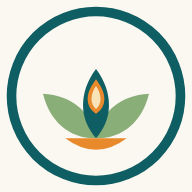
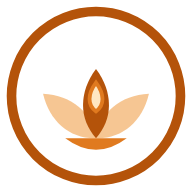
Light orange and white theme; remove dark theme
- Light orange fills (#FFE0BD) with dark brown-orange text (8.6:1) for
  buttons, the active menu item, tabs and completed habits; white page
  background; all text meets WCAG AA (4.9:1 to 13.4:1)
- Remove the dark theme and its toggle so the app is always light;
  clear any saved dark preference
- Emblem, favicon and app icons recoloured in orange tones; habit
  chart bars orange instead of green
- Selected assessment answers get a deep-orange outline and number badge
- Service worker cache bumped to v3 so browsers pick up the new look

Claude-Session: https://claude.ai/code/session_01XNS1yNF7twSLgBmby9YbCe

Changed region(s): [[0.0312, 0.0312, 0.9688, 0.9688], [0.2188, 0.3438, 0.7812, 0.7188]]

diff --git a/frontend/src/index.css b/frontend/src/index.css
@@ -3,7 +3,7 @@
 @tailwind utilities;
 
 /* SWASTI brand tokens: deep teal, saffron, leaf green, soft ivory, muted blue */
-/* SWASTI palette: white canvas, very light "spiritual" saffron fills, warm brown text */
+/* SWASTI palette: white canvas, light orange fills, warm brown text. Light only, by design. */
 :root {
   --bg: 255 255 255;          /* white */
   --surface: 255 255 255;
@@ -11,33 +11,24 @@
   --ink: 61 43 31;            /* warm brown-black text, softer than pure black */
   --muted: 120 101 86;
   --line: 241 226 206;
-  --teal: 140 70 10;          /* accent (links, brand, icons): deep saffron-brown, 7:1 on white */
-  --teal-soft: 255 243 226;
-  --saffron: 178 92 14;       /* saffron text accent, 4.6:1 on white */
-  --saffron-soft: 255 239 216;
-  --fill: 253 230 196;        /* very light saffron: buttons, active items */
-  --fill-strong: 247 205 150; /* borders / completed marks */
-  --fill-soft: 255 246 234;   /* large calm areas (login panel) */
-  --on-fill: 92 45 6;         /* deep brown text on saffron fills, ~10:1 */
+  --teal: 160 70 0;           /* accent (links, brand, icons): deep orange-brown, 6:1 on white */
+  --teal-soft: 255 241 228;
+  --saffron: 184 84 0;        /* orange text accent, 4.6:1 on white */
+  --saffron-soft: 255 236 214;
+  --fill: 255 224 189;        /* light orange: buttons, active items */
+  --fill-strong: 250 196 140; /* borders / completed marks */
+  --fill-soft: 255 245 235;   /* large calm areas (login panel) */
+  --on-fill: 102 45 0;        /* dark brown-orange text on light orange, ~9:1 */
   --on-teal: 255 255 255;
   --leaf: 46 112 40;
   --trust: 62 98 146;
   /* chart series (validated categorical slots) */
   --s-current: #2a78d6; --s-target: #eb6834; --s-previous: #1baf7a; --s-baseline: #6250d6;
-  --grid: #eadfcd;
+  --grid: #f0e2d2;
+  --bar: #d9741c;             /* orange marks for single-series charts */
   /* wellness levels: always paired with a text label */
   --lv-attention: #b42318; --lv-developing: #a15c07; --lv-balanced: #2a63b8; --lv-good: #1f7a3a; --lv-thriving: #6b3fa0;
   color-scheme: light;
-}
-/* Optional dark theme: only when the person explicitly chooses it (never automatic). */
-:root[data-theme="dark"] {
-  --bg: 28 22 18; --surface: 38 30 25; --surface2: 48 38 31; --ink: 245 236 224; --muted: 190 172 152; --line: 66 53 43;
-  --teal: 245 178 108; --teal-soft: 64 44 24; --saffron: 245 170 90; --saffron-soft: 70 46 20;
-  --fill: 92 58 22; --fill-strong: 130 84 34; --fill-soft: 46 34 24; --on-fill: 255 236 210; --on-teal: 28 22 18;
-  --leaf: 130 196 100; --trust: 132 168 220;
-  --s-current: #3987e5; --s-target: #d95926; --s-previous: #199e70; --s-baseline: #9085e9; --grid: #4a3b30;
-  --lv-attention: #f07167; --lv-developing: #f2b04c; --lv-balanced: #7fb0f0; --lv-good: #6fcf8b; --lv-thriving: #c39cf0;
-  color-scheme: dark;
 }
 
 html, body, #root { min-height: 100%; }

diff --git a/frontend/src/components/Layout.tsx b/frontend/src/components/Layout.tsx
@@ -2,13 +2,12 @@ import { useEffect, useState, type ReactNode } from 'react'
 import { NavLink, Outlet, useLocation, useNavigate } from 'react-router-dom'
 import {
   Bell, Bot, CalendarCheck, ClipboardList, FileText, House, LayoutDashboard, LifeBuoy, Lightbulb, Lock, LogOut, Menu,
-  Mic, Moon, Repeat, Settings, Stethoscope, Sun, User as UserIcon, X,
+  Mic, Repeat, Settings, Stethoscope, User as UserIcon, X,
 } from 'lucide-react'
 import clsx from 'clsx'
 import { Logo } from './Logo'
 import { useAuth, type Role } from '../lib/auth'
 import { api } from '../lib/api'
-import { useTheme } from '../lib/hooks'
 
 interface Item { to: string; label: string; icon: typeof House; roles: Role[] }
 const ALL: Role[] = ['individual', 'coach', 'counselor', 'admin']
@@ -33,21 +32,6 @@ const MOBILE: Record<Role, string[]> = {
   coach: ['/', '/coach', '/interview', '/reports'],
   counselor: ['/', '/coach', '/interview', '/reports'],
   admin: ['/', '/admin', '/agents', '/help'],
-}
-
-function ThemeSwitch() {
-  const [theme, setTheme] = useTheme()
-  const opts = [['light', Sun], ['dark', Moon]] as const
-  return (
-    <div className="flex rounded-xl border border-line p-0.5" role="radiogroup" aria-label="Theme">
-      {opts.map(([v, I]) => (
-        <button key={v} role="radio" aria-checked={theme === v} aria-label={`${v} theme`} onClick={() => setTheme(v)}
-          className={clsx('grid h-8 w-8 place-items-center rounded-lg', theme === v ? 'bg-fill text-onfill' : 'text-muted')}>
-          <I size={15} />
-        </button>
-      ))}
-    </div>
-  )
 }
 
 function Notifications() {
@@ -102,7 +86,6 @@ export function Layout({ children }: { children?: ReactNode }) {
         <Logo />
         {SideNav}
         <div className="mt-auto space-y-3">
-          <ThemeSwitch />
           <p className="text-[11px] italic text-muted">Balance Within. Harmony Around. Well-being for All.</p>
           <p className="text-[10px] text-muted/80" title="Build time">Build {__BUILD_TIME__}</p>
         </div>
@@ -113,7 +96,6 @@ export function Layout({ children }: { children?: ReactNode }) {
           <div className="h-full w-72 max-w-[85vw] overflow-y-auto bg-surface p-5" onClick={(e) => e.stopPropagation()}>
             <div className="mb-6 flex items-center justify-between"><Logo compact /><button aria-label="Close menu" onClick={() => setDrawer(false)}><X /></button></div>
             {SideNav}
-            <div className="mt-6"><ThemeSwitch /></div>
           </div>
         </div>
       )}

diff --git a/frontend/src/components/Logo.tsx b/frontend/src/components/Logo.tsx
@@ -8,9 +8,9 @@ export function Emblem({ size = 40, mono = false }: { size?: number; mono?: bool
     const a = (i / 14) * Math.PI * 2 - Math.PI / 2
     return [50 + 41 * Math.cos(a), 50 + 41 * Math.sin(a)]
   })
-  const teal = mono ? 'currentColor' : '#0F5E63'
-  const leaf = mono ? 'currentColor' : '#3D7D28'
-  const saffron = mono ? 'currentColor' : '#E8892B'
+  const teal = mono ? 'currentColor' : '#B4530A'
+  const leaf = mono ? 'currentColor' : '#F0A04B'
+  const saffron = mono ? 'currentColor' : '#E07A1F'
   const petal = 'M50 70 C41 60 41 46 50 34 C59 46 59 60 50 70 Z'
   return (
     <svg width={size} height={size} viewBox="0 0 100 100" role="img" aria-label="SWASTI emblem">
@@ -27,7 +27,7 @@ export function Emblem({ size = 40, mono = false }: { size?: number; mono?: bool
         <path d={petal} fill={teal} />
       </g>
       <path d="M36 70 Q50 81 64 70 Z" fill={saffron} />
-      <path d="M50 41 C54.5 47 54.5 53 50 56 C45.5 53 45.5 47 50 41 Z" fill={mono ? 'none' : '#FBE3B8'} stroke={saffron} strokeWidth="1.6" />
+      <path d="M50 41 C54.5 47 54.5 53 50 56 C45.5 53 45.5 47 50 41 Z" fill={mono ? 'none' : '#FFE7C2'} stroke={saffron} strokeWidth="1.6" />
       <circle cx="50" cy="51" r="1.8" fill={saffron} />
     </svg>
   )

diff --git a/frontend/src/components/QuestionForm.tsx b/frontend/src/components/QuestionForm.tsx
@@ -16,8 +16,8 @@ export function QuestionBlock({ p, a, onChange, index }: { p: Param; a?: AnswerS
           return (
             <button type="button" key={o.value} aria-pressed={sel} onClick={() => onChange({ value: o.value, status: 'answered' })}
               className={clsx('flex min-h-[48px] items-center gap-2 rounded-xl border px-3 py-2 text-left text-sm transition sm:flex-col sm:justify-center sm:text-center',
-                sel ? 'border-fillstrong bg-fill text-onfill font-semibold' : 'border-line bg-surface hover:border-fillstrong hover:bg-fillsoft')}>
-              {p.options.length > 2 && <span className={clsx('grid h-6 w-6 shrink-0 place-items-center rounded-full text-xs font-bold', sel ? 'bg-fillstrong' : 'bg-surface2')}>{o.value}</span>}
+                sel ? 'border-teal bg-fill text-onfill font-semibold shadow-[inset_0_0_0_1px_rgb(var(--teal))]' : 'border-line bg-surface hover:border-fillstrong hover:bg-fillsoft')}>
+              {p.options.length > 2 && <span className={clsx('grid h-6 w-6 shrink-0 place-items-center rounded-full text-xs font-bold', sel ? 'bg-teal text-white' : 'bg-surface2')}>{o.value}</span>}
               <span>{o.label}</span>
             </button>
           )

diff --git a/frontend/src/components/charts.tsx b/frontend/src/components/charts.tsx
@@ -131,7 +131,7 @@ export function OverallTrend({ data }: { data: any[] }) {
 }
 
 export function HabitBars({ data }: { data: any[] }) {
-  const c = useVars(['--s-previous', '--grid', '--muted'])
+  const c = useVars(['--bar', '--grid', '--muted'])
   return (
     <div className="h-56">
       <ResponsiveContainer>
@@ -139,7 +139,7 @@ export function HabitBars({ data }: { data: any[] }) {
           <CartesianGrid stroke={c['--grid']} strokeDasharray="2 4" vertical={false} />
           <XAxis dataKey="label" tick={{ fontSize: 10, fill: rgb(c['--muted']) }} tickLine={false} />
           <YAxis allowDecimals={false} tick={{ fontSize: 10, fill: rgb(c['--muted']) }} tickLine={false} axisLine={false} />
-          <Bar dataKey="completions" name="Completions (week of)" fill={c['--s-previous']} radius={[4, 4, 0, 0]} isAnimationActive={false} />
+          <Bar dataKey="completions" name="Completions (week of)" fill={c['--bar']} radius={[4, 4, 0, 0]} isAnimationActive={false} />
           <Tooltip content={<TipBox />} cursor={{ fill: 'rgba(127,127,127,0.08)' }} />
         </BarChart>
       </ResponsiveContainer>

diff --git a/frontend/src/lib/hooks.ts b/frontend/src/lib/hooks.ts
@@ -15,13 +15,3 @@ export function useApi<T>(path: string | null, deps: unknown[] = []) {
   return { data, error, loading, reload: load, setData }
 }
 
-export function useTheme() {
-  const read = () => { try { return localStorage.getItem('swasti.theme.v2') === 'dark' ? 'dark' : 'light' } catch { return 'light' } }
-  const [theme, setThemeState] = useState<string>(read)
-  useEffect(() => {
-    const root = document.documentElement
-    root.setAttribute('data-theme', theme)
-    try { localStorage.setItem('swasti.theme.v2', theme) } catch { /* ignore */ }
-  }, [theme])
-  return [theme, setThemeState] as const
-}

diff --git a/frontend/index.html b/frontend/index.html
@@ -6,7 +6,7 @@
     <link rel="apple-touch-icon" href="/icon-192.png" />
     <link rel="manifest" href="/manifest.webmanifest" />
     <meta name="viewport" content="width=device-width, initial-scale=1.0, viewport-fit=cover" />
-    <meta name="theme-color" content="#FFF6EA" />
+    <meta name="theme-color" content="#FFF5EB" />
     <meta name="description" content="SWASTI – 360° Human Wellness & Life Balance. Balance Within. Harmony Around. Well-being for All." />
     <link rel="preconnect" href="https://fonts.googleapis.com" />
     <link rel="preconnect" href="https://fonts.gstatic.com" crossorigin />

diff --git a/frontend/src/main.tsx b/frontend/src/main.tsx
@@ -6,7 +6,8 @@ import App from './App'
 import { AuthProvider } from './lib/auth'
 
 try {
-  document.documentElement.setAttribute('data-theme', localStorage.getItem('swasti.theme.v2') === 'dark' ? 'dark' : 'light')
+  localStorage.removeItem('swasti.theme'); localStorage.removeItem('swasti.theme.v2') // retired dark-theme preference
+  document.documentElement.setAttribute('data-theme', 'light')
 } catch { /* storage unavailable */ }
 
 createRoot(document.getElementById('root')!).render(

diff --git a/frontend/public/sw.js b/frontend/public/sw.js
@@ -1,5 +1,5 @@
 /* SWASTI service worker: offline app shell; API calls are never cached (sensitive data). */
-const CACHE = 'swasti-shell-v2'
+const CACHE = 'swasti-shell-v3'
 const SHELL = ['/', '/index.html', '/favicon.svg', '/manifest.webmanifest', '/icon-192.png']
 self.addEventListener('install', (e) => { e.waitUntil(caches.open(CACHE).then((c) => c.addAll(SHELL))); self.skipWaiting() })
 self.addEventListener('activate', (e) => {
